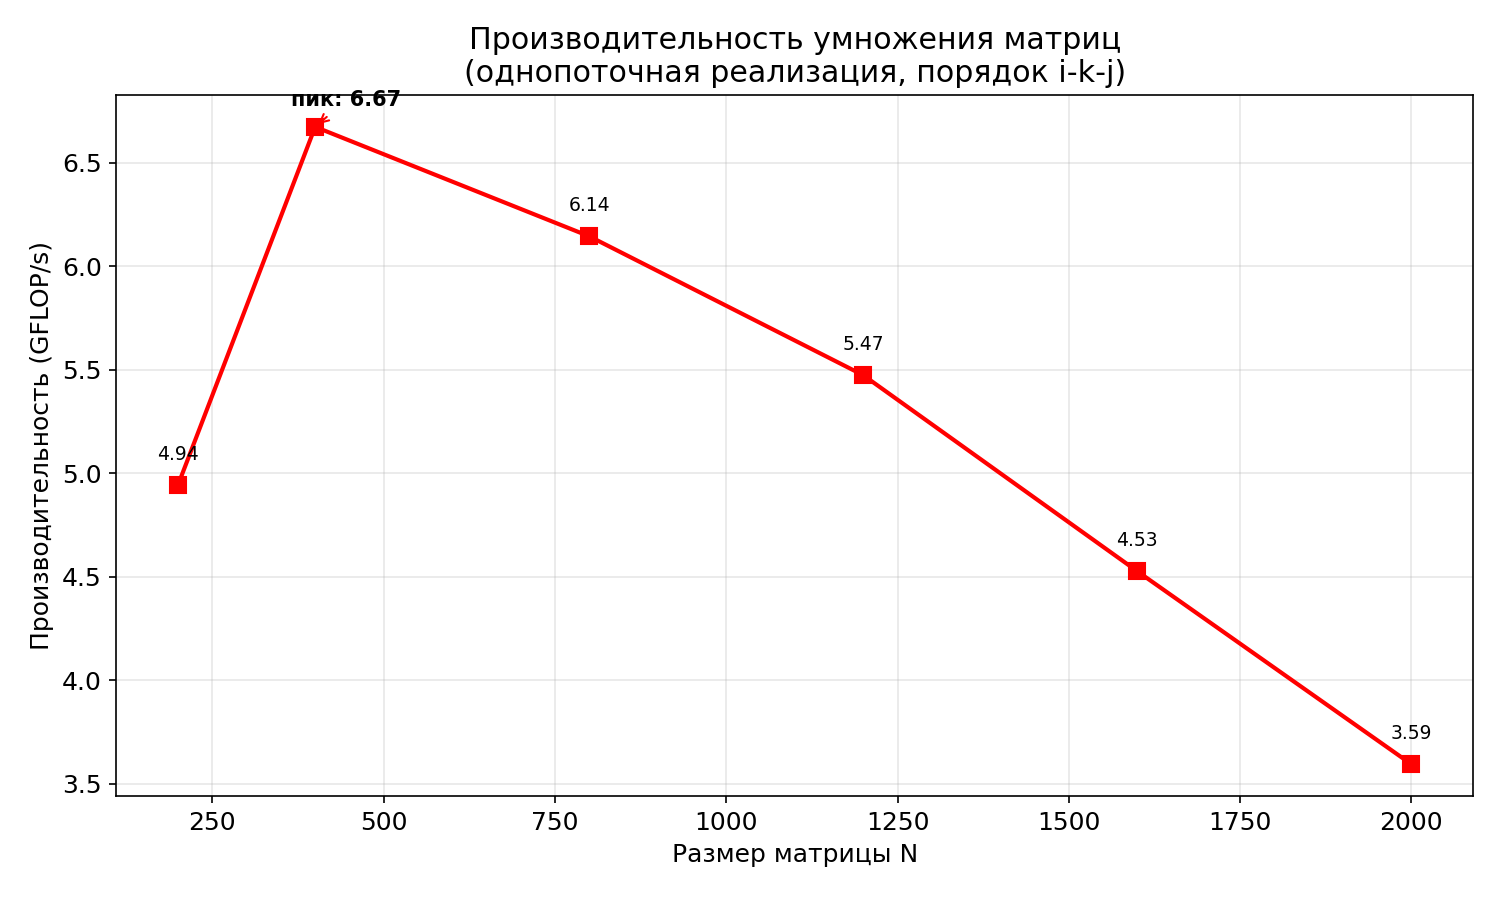
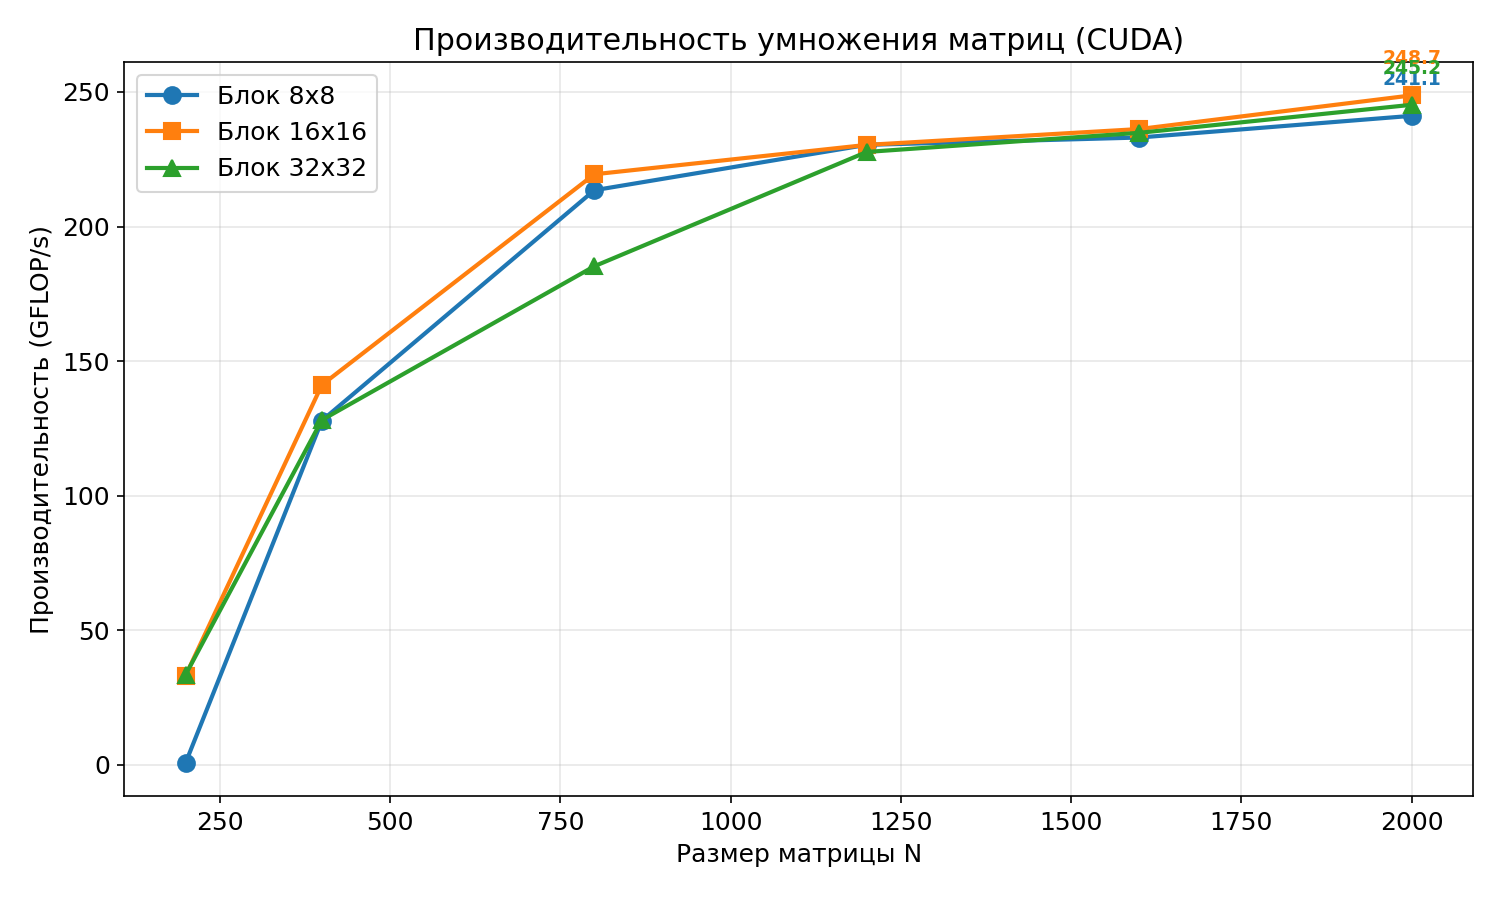
final

diff --git a/plot_results.py b/plot_results.py
@@ -3,6 +3,7 @@ import os
 import matplotlib
 matplotlib.use('Agg')
 import matplotlib.pyplot as plt
+import collections
 
 def main():
     csv_file = "experiment_results.csv"
@@ -13,12 +14,10 @@ def main():
         print(f"Файл {csv_file} не найден!")
         return
 
-    # Создаём папку data, если нет
     output_dir = "data"
     os.makedirs(output_dir, exist_ok=True)
 
-    # Чтение CSV
-    sizes, times, gflops, gflops_s, memory = [], [], [], [], []
+    data_by_block = collections.defaultdict(lambda: {'sizes': [], 'times': [], 'gflops': [], 'gflops_s': [], 'memory': []})
 
     with open(csv_file, 'r') as f:
         f.readline()  # заголовок
@@ -27,13 +26,23 @@ def main():
             if not line:
                 continue
             parts = line.split(',')
-            sizes.append(int(parts[0]))
-            times.append(float(parts[1]))
-            gflops.append(float(parts[2]))
-            gflops_s.append(float(parts[3]))
-            memory.append(float(parts[4]))
+            if len(parts) < 6:
+                continue
+            
+            n = int(parts[0])
+            block_size = int(parts[1])
+            time_sec = float(parts[2])
+            gflop = float(parts[3])
+            gflop_s = float(parts[4])
+            mem_mb = float(parts[5])
+            
+            data_by_block[block_size]['sizes'].append(n)
+            data_by_block[block_size]['times'].append(time_sec)
+            data_by_block[block_size]['gflops'].append(gflop)
+            data_by_block[block_size]['gflops_s'].append(gflop_s)
+            data_by_block[block_size]['memory'].append(mem_mb)
 
-    if not sizes:
+    if not data_by_block:
         print("Нет данных!")
         return
 
@@ -43,16 +52,23 @@ def main():
         'grid.alpha': 0.3,
         'figure.figsize': (10, 6)
     })
+    
+    colors = ['tab:blue', 'tab:orange', 'tab:green', 'tab:red', 'tab:purple']
+    markers = ['o', 's', '^', 'D', 'v']
 
     # === График 1: Время ===
     fig, ax = plt.subplots()
-    ax.plot(sizes, times, 'bo-', linewidth=2, markersize=8)
+    for idx, (block_size, data) in enumerate(sorted(data_by_block.items())):
+        c = colors[idx % len(colors)]
+        m = markers[idx % len(markers)]
+        ax.plot(data['sizes'], data['times'], f'{m}-', color=c, linewidth=2, markersize=8, label=f'Блок {block_size}x{block_size}')
+        for x, y in zip(data['sizes'], data['times']):
+            ax.annotate(f'{y:.3f}', (x, y), textcoords="offset points", xytext=(0, 10), ha='center', fontsize=8, color=c)
+            
     ax.set_xlabel('Размер матрицы N')
     ax.set_ylabel('Время выполнения (сек)')
-    ax.set_title('Зависимость времени умножения матриц от размера\n(однопоточная реализация, порядок i-k-j)')
-    for x, y in zip(sizes, times):
-        ax.annotate(f'{y:.3f}', (x, y), textcoords="offset points",
-                    xytext=(0, 12), ha='center', fontsize=9)
+    ax.set_title('Зависимость времени умножения матриц от размера (CUDA)')
+    ax.legend()
     plt.tight_layout()
     plt.savefig(os.path.join(output_dir, 'graph_time.png'), dpi=150)
     print(f"  Сохранён: {output_dir}/graph_time.png")
@@ -60,71 +76,36 @@ def main():
 
     # === График 2: GFLOP/s ===
     fig, ax = plt.subplots()
-    ax.plot(sizes, gflops_s, 'rs-', linewidth=2, markersize=8)
+    for idx, (block_size, data) in enumerate(sorted(data_by_block.items())):
+        c = colors[idx % len(colors)]
+        m = markers[idx % len(markers)]
+        ax.plot(data['sizes'], data['gflops_s'], f'{m}-', color=c, linewidth=2, markersize=8, label=f'Блок {block_size}x{block_size}')
+        
+        # Подсветка пика для каждого блока
+        if data['gflops_s']:
+            peak_idx = data['gflops_s'].index(max(data['gflops_s']))
+            ax.annotate(f'{data["gflops_s"][peak_idx]:.1f}',
+                        (data['sizes'][peak_idx], data['gflops_s'][peak_idx]),
+                        textcoords="offset points", xytext=(0, 15),
+                        ha='center', fontsize=9, fontweight='bold', color=c)
+            
     ax.set_xlabel('Размер матрицы N')
     ax.set_ylabel('Производительность (GFLOP/s)')
-    ax.set_title('Производительность умножения матриц\n(однопоточная реализация, порядок i-k-j)')
-
-    # Подсветка пика
-    peak_idx = gflops_s.index(max(gflops_s))
-    ax.annotate(f'пик: {gflops_s[peak_idx]:.2f}',
-                (sizes[peak_idx], gflops_s[peak_idx]),
-                textcoords="offset points", xytext=(15, 10),
-                ha='center', fontsize=10, fontweight='bold',
-                arrowprops=dict(arrowstyle='->', color='red'))
-
-    for i, (x, y) in enumerate(zip(sizes, gflops_s)):
-        if i != peak_idx:
-            ax.annotate(f'{y:.2f}', (x, y), textcoords="offset points",
-                        xytext=(0, 12), ha='center', fontsize=9)
+    ax.set_title('Производительность умножения матриц (CUDA)')
+    ax.legend()
     plt.tight_layout()
     plt.savefig(os.path.join(output_dir, 'graph_gflops.png'), dpi=150)
     print(f"  Сохранён: {output_dir}/graph_gflops.png")
     plt.close()
 
-    # === График 3: Память ===
-    fig, ax = plt.subplots()
-    ax.bar(range(len(sizes)), memory, color='green', alpha=0.7)
-    ax.set_xticks(range(len(sizes)))
-    ax.set_xticklabels([str(s) for s in sizes])
-    ax.set_xlabel('Размер матрицы N')
-    ax.set_ylabel('Память (МБ)')
-    ax.set_title('Потребление памяти (3 матрицы NxN, double)')
-    for i, y in enumerate(memory):
-        ax.text(i, y + 0.5, f'{y:.1f}', ha='center', fontsize=9)
-    plt.tight_layout()
-    plt.savefig(os.path.join(output_dir, 'graph_memory.png'), dpi=150)
-    print(f"  Сохранён: {output_dir}/graph_memory.png")
-    plt.close()
-
-    # === График 4: Время vs O(N³) ===
-    fig, ax1 = plt.subplots()
-    ax1.set_xlabel('Размер матрицы N')
-    ax1.set_ylabel('Время (сек)', color='tab:blue')
-    ax1.plot(sizes, times, 'o-', linewidth=2, markersize=8,
-             label='Время (факт)', color='tab:blue')
-    ax1.tick_params(axis='y', labelcolor='tab:blue')
-
-    if times[0] > 0:
-        scale = times[0] / (sizes[0] ** 3)
-        theoretical = [scale * (n ** 3) for n in sizes]
-        ax1.plot(sizes, theoretical, '--', alpha=0.4, linewidth=1.5,
-                 label='Теор. O(N³)', color='tab:blue')
-
-    ax1.legend(loc='upper left')
-    ax1.set_title('Время выполнения vs теоретическая сложность O(N³)')
-    plt.tight_layout()
-    plt.savefig(os.path.join(output_dir, 'graph_combined.png'), dpi=150)
-    print(f"  Сохранён: {output_dir}/graph_combined.png")
-    plt.close()
-
     # Таблица в консоль
-    print("\n" + "=" * 75)
-    print(f"{'N':>6} | {'Время (сек)':>12} | {'GFLOP':>8} | {'GFLOP/s':>8} | {'Память (МБ)':>12}")
-    print("-" * 75)
-    for i in range(len(sizes)):
-        print(f"{sizes[i]:>6} | {times[i]:>12.6f} | {gflops[i]:>8.3f} | {gflops_s[i]:>8.4f} | {memory[i]:>12.2f}")
-    print("=" * 75)
+    print("\n" + "=" * 85)
+    print(f"{'N':>6} | {'Блок':>6} | {'Время (сек)':>12} | {'GFLOP':>8} | {'GFLOP/s':>8} | {'Память (МБ)':>12}")
+    print("-" * 85)
+    for block_size, data in sorted(data_by_block.items()):
+        for i in range(len(data['sizes'])):
+            print(f"{data['sizes'][i]:>6} | {block_size:>6} | {data['times'][i]:>12.6f} | {data['gflops'][i]:>8.3f} | {data['gflops_s'][i]:>8.4f} | {data['memory'][i]:>12.2f}")
+    print("=" * 85)
 
 if __name__ == "__main__":
     main()
